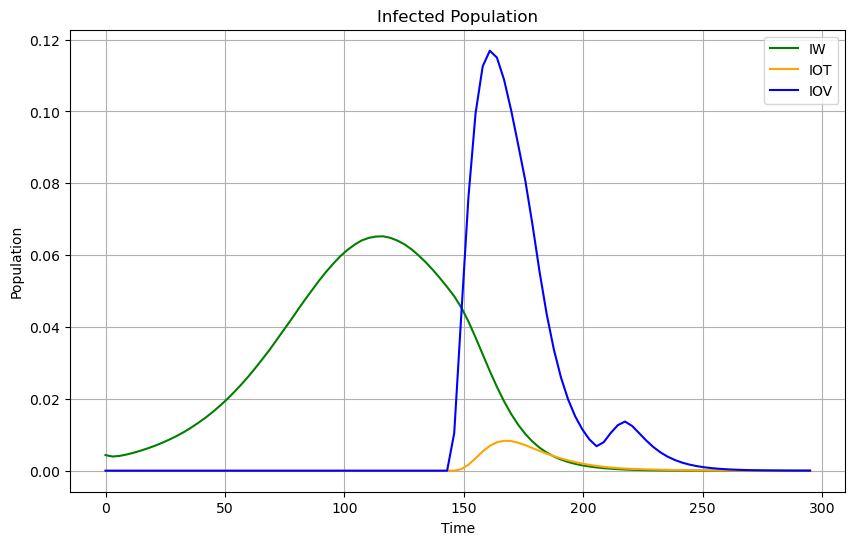
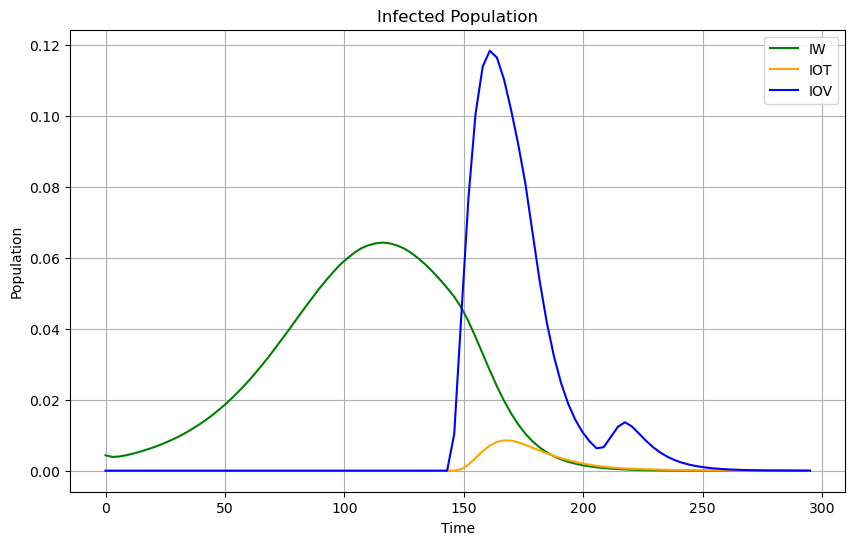
added EW initial condition in test3.py

diff --git a/test3.py b/test3.py
@@ -9,17 +9,17 @@ import math
 def equations(t, y, beta, rho, sigma, gamma):
     S, IOV, IOT, IW, EOV, EOT, EW, ROV, ROT, RW = y
 
-    # Define vR based on the time t
+    # Define phi based on the time t
     if 144 <= t <= 175 or 206 <= t <= 216:
-        vR = (0.8) * (0.074)
+        phi = (0.8) * (0.074)
     else:
-        vR = 0
+        phi = 0
 
-    S_dot = -(beta * S * rho) * (IOV + IOT) - (beta * S * IW) - (vR * S)
+    S_dot = -(beta * S * rho) * (IOV + IOT) - (beta * S * IW) - (phi * S)
     IOV_dot = sigma * EOV - gamma * IOV
     IOT_dot = sigma * EOT - gamma * (IOT)
     IW_dot = sigma * EW - gamma * IW
-    EOV_dot = (vR * S) - (sigma * EOV)
+    EOV_dot = (phi * S) - (sigma * EOV)
     EOT_dot = (rho * beta * S) * (IOV + IOT) - (sigma * EOT)
     EW_dot = (beta * S * IW) - (sigma * EW)
     ROV_dot = gamma * IOV
@@ -28,25 +28,39 @@ def equations(t, y, beta, rho, sigma, gamma):
 
     return [S_dot, IOV_dot, IOT_dot, IW_dot, EOV_dot, EOT_dot, EW_dot, ROV_dot, ROT_dot, RW_dot]
 
+def find_closest_index(numbers, target):
+    closest_index = None
+    min_difference = float('inf')  # Initialize with positive infinity
+
+    for i, num in enumerate(numbers):
+        difference = abs(num - target)
+        if difference < min_difference:
+            min_difference = difference
+            closest_index = i
+
+    return closest_index
+
 
 # Define initial conditions
 IOV_0 = 0
 IOT_0 = 0
+EOV_0 = 0
+EOT_0 = 0
 ROV_0 = 0
 ROT_0 = 0
 RW_0 = 0
+IW_0 = 0.00434
+EW_0 = 0 #set temp value to EW
+
+# Define the time span
+t_span = [0, 295]
+
+# define star initial conditions for EW estimation
 alpha_star = 0.25
 gamma_star = 0.093
-IW_0 = 0.00434
-IW_00 = 0.001
-EW_0 = (gamma_star / alpha_star) * IW_00
-S0 = 1 - IW_00 - EW_0
-EOV_0 = 0
-EOT_0 = 0
-
-# Initial conditions
-
-y0 = [S0, IOV_0, IOT_0, IW_0, EOV_0, EOT_0, EW_0, ROV_0, ROT_0, RW_0]  
+IW_0_star = 0.001
+EW_0_star = (gamma_star / alpha_star) * IW_0_star
+S0_star = 1 - IW_0_star - EW_0_star
 
 # Define parameter values
 beta = 0.151
@@ -56,21 +70,39 @@ gamma = 0.093
 sewage_scaling_o = 2.02 * (10**7)
 sewage_scaling_w = 1.07 * (10**7)
 
-# Define the time span
-t_span = [0, 295]
+# Star initial conditions
+y0_star = [S0_star, IOV_0, IOT_0, IW_0_star, EOV_0, EOT_0, EW_0_star, ROV_0, ROT_0, RW_0]  
+
+# Solve the differential equations for EW estimation
+star_solutions = solve_ivp(equations, t_span, y0_star, args=(beta, rho, sigma, gamma), dense_output=True)
+
+# Extract the star solutions
+t_values = np.linspace(0, 295, 100)
+y_star_values = star_solutions.sol(t_values)
+
+# Extract the IW_star and EW_star soln
+IW_star_values = y_star_values[3]
+EW_star_values = y_star_values[6]
+
+# Use find_closest_index to find where IW_star is equal to IW_0
+index = find_closest_index(IW_star_values, IW_0)
+
+# Assign the value of EW_0 to the index  from EW_star_values
+EW_0 = EW_star_values[index]
+
+# Determine S0 with new EW_0 value
+S0 = 1 - IW_0 - EW_0
+
+# Set new initial conditions for main modeling
+y0 = [S0, IOV_0, IOT_0, IW_0, EOV_0, EOT_0, EW_0, ROV_0, ROT_0, RW_0]  
 
 # Solve the differential equations
 solution = solve_ivp(equations, t_span, y0, args=(beta, rho, sigma, gamma), dense_output=True)
 
-
-
-# Extract the solution
-t_values = np.linspace(0, 295, 100)
+# Extract the solutions
 y_values = solution.sol(t_values)
 
-
-
-# Extract the solution for S, I, E, and R
+# Extract the star_solutions for S, I, E, and R
 S_values = y_values[0]
 IW_values = y_values[3]
 IOV_values = y_values[1]
@@ -134,4 +166,3 @@ plt.legend()
 plt.grid(True)
 plt.savefig('Recovered_plot.png', bbox_inches='tight')
 plt.close()
-
